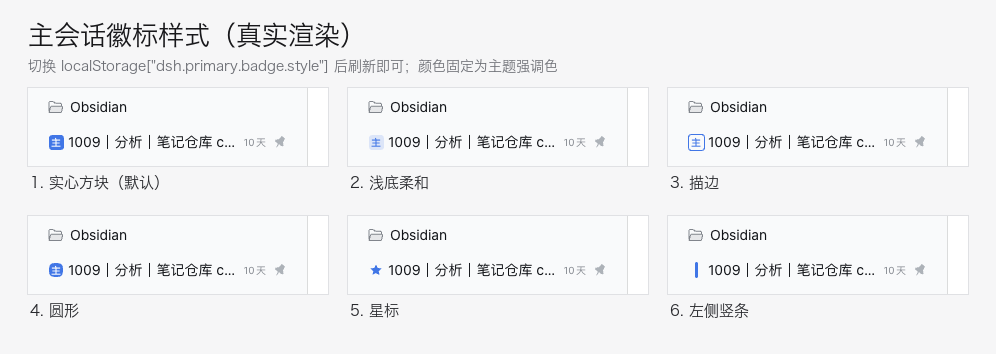
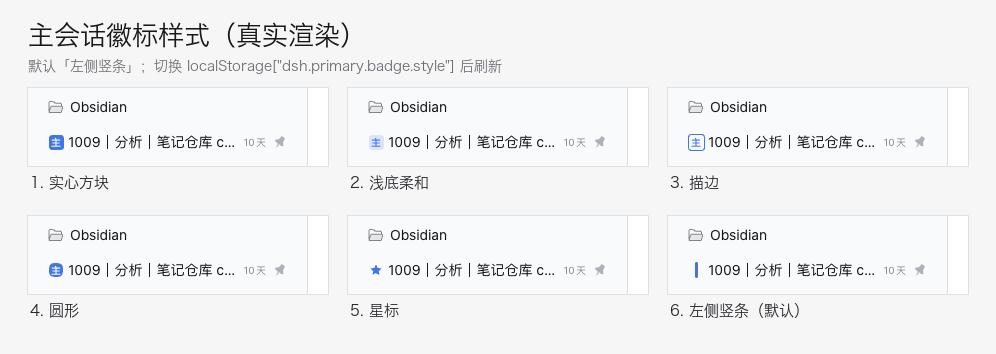
Default the primary badge to the left-bar style
bar becomes the fallback for an unset or unknown dsh.primary.badge.style; the other five variants stay selectable. Updates the preview sheet and the style-selection test.

Changed region(s): [[0.0311, 0.1554, 0.5602, 0.2175], [0.747, 0.839, 0.8092, 0.9011], [0.1245, 0.4972, 0.1556, 0.5593]]

diff --git a/plugins/dsh-primary-session/lib/client.js b/plugins/dsh-primary-session/lib/client.js
@@ -155,7 +155,7 @@ window.__ModuleLoader__.load({
 			const first = pinnedIds.find((id) => !accounted.has(id));
 			return first === sessionId;
 		}
-		/** localStorage key selecting the badge visual; unknown values fall back to `solid`. */
+		/** localStorage key selecting the badge visual; unknown values fall back to `bar`. */
 		const BADGE_STYLE_KEY = "dsh.primary.badge.style";
 		/** Supported badge styles, also used by the README preview sheet. */
 		const BADGE_STYLES = ["solid", "soft", "outline", "circle", "star", "bar"];
@@ -167,9 +167,9 @@ window.__ModuleLoader__.load({
 		function badgeStyle() {
 			try {
 				const value = globalThis.localStorage?.getItem(BADGE_STYLE_KEY);
-				return BADGE_STYLES.includes(value) ? value : "solid";
+				return BADGE_STYLES.includes(value) ? value : "bar";
 			} catch {
-				return "solid";
+				return "bar";
 			}
 		}
 		/** Accent color shared by every badge style (the sidebar's business accent). */
